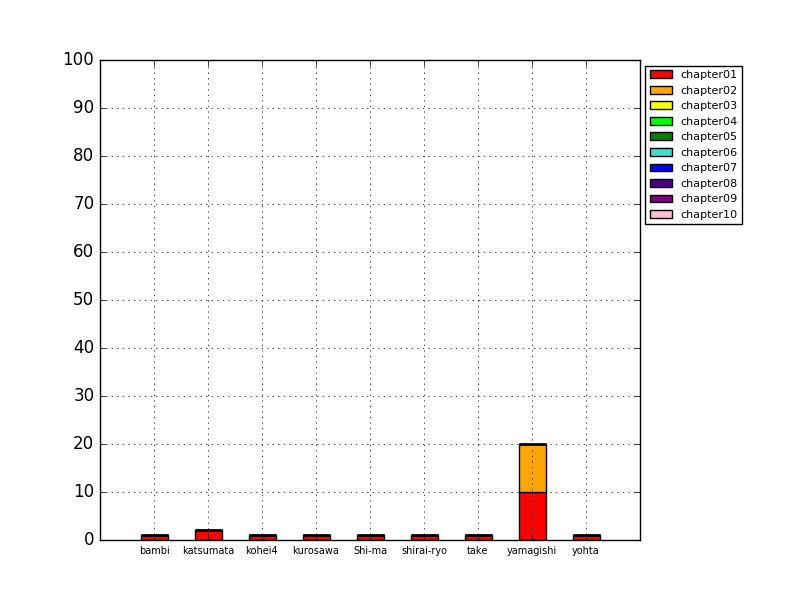
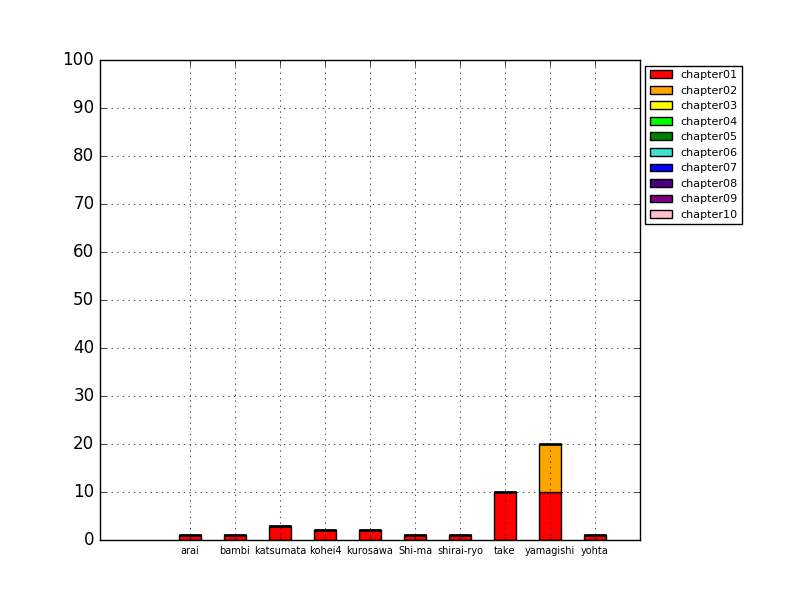
chapter01 was added

Changed region(s): [[0.1562, 0.72, 0.7812, 0.93]]

diff --git a/yamagishi/chapter01/knock09.py b/yamagishi/chapter01/knock09.py
@@ -1,0 +1,19 @@
+import random
+
+def swap(word):
+    if len(word) < 4:
+        return word
+    else:
+        word = list(word)
+        first = word.pop(0)
+        last = word.pop(-1)
+        random.shuffle(word)
+        return ''.join(list(first) + word + list(last))
+
+sentence = "I couldn't believe that I could actually understand what I was reading : the phenomenal power of the human mind ."
+
+ans = list()
+for word in sentence.strip().split():
+    ans.append(swap(word))
+
+print(' '.join(ans))

diff --git a/yamagishi/chapter01/knock04.py b/yamagishi/chapter01/knock04.py
@@ -1,0 +1,14 @@
+sentence = 'Hi He Lied Because Boron Could Not Oxidize Fluorine. New Nations Might Also Sign Peace Security Clause. Arthur King Can.'
+
+direct = [1, 5, 6, 7, 8, 9, 15, 16, 19]
+
+element = dict()
+for i, word in enumerate(sentence.strip().split()):
+    if i + 1 in direct:
+        element[word[0]] = i + 1
+    elif i + 1 == 12:
+        element[word[0:3:2]] = i + 1
+    else:
+        element[word[:2]] = i + 1
+
+print(sorted(element.items(), key=lambda x:x[1]))

diff --git a/yamagishi/chapter01/knock08.py b/yamagishi/chapter01/knock08.py
@@ -1,0 +1,19 @@
+def cipher(s):
+    if s.islower():
+        return chr(219 - ord(s))
+    else:
+        return s
+
+word = 'aBcDeFg'
+
+enc = ''
+for s in word:
+    enc += cipher(s)
+
+print('Encode: ' + enc)
+
+dec = ''
+for s in enc:
+    dec += cipher(s)
+
+print('Decode: ' + dec)

diff --git a/yamagishi/chapter01/knock03.py b/yamagishi/chapter01/knock03.py
@@ -1,0 +1,5 @@
+sentence = 'Now I need a drink, alcoholic of course, after the heavy lectures involving quantum mechanics.'
+sentence = sentence.replace(',', '').replace('.', '')
+
+pi = [len(word) for word in sentence.strip().split()]
+print(pi)

diff --git a/yamagishi/chapter01/knock05.py b/yamagishi/chapter01/knock05.py
@@ -1,0 +1,7 @@
+def ngram(string, n):
+    return list(zip(*[string[i:] for i in range(n)]))
+
+if __name__ == '__main__':
+    string = 'I am an NLPer'
+    print(ngram(string.strip().split(), 2))
+    print(ngram(string.replace(' ', '_'), 2))

diff --git a/yamagishi/chapter01/knock06.py b/yamagishi/chapter01/knock06.py
@@ -1,0 +1,8 @@
+from knock05 import ngram
+
+X = set(ngram('paraparaparadise', 2))
+Y = set(ngram('paragraph', 2))
+
+print('X | Y\t' + str(X | Y))
+print('X & Y\t' + str(X & Y))
+print('X - Y\t' + str(X - Y))

diff --git a/yamagishi/chapter01/knock02.py b/yamagishi/chapter01/knock02.py
@@ -1,0 +1,10 @@
+# -*- coding: utf-8 -*-
+
+s1 = 'パトカー'
+s2 = 'タクシー'
+
+ans = ''
+for l1, l2 in zip(s1, s2):
+    ans += l1 + l2
+
+print(ans)

diff --git a/yamagishi/chapter01/knock07.py b/yamagishi/chapter01/knock07.py
@@ -1,0 +1,4 @@
+def template(x, y, z):
+    return str(x) + '時の' + str(y) + 'は' + str(z)
+
+print(template(12, '気温', 22.4))

diff --git a/yamagishi/chapter01/knock01.py b/yamagishi/chapter01/knock01.py
@@ -1,1 +1,3 @@
-print('Hello, World!')
+# -*- coding: utf-8 -*-
+sentence = 'パタトクカシー'
+print(sentence[::2])

diff --git a/yamagishi/chapter01/knock00.py b/yamagishi/chapter01/knock00.py
@@ -1,0 +1,2 @@
+sentence = 'stressed'
+print(sentence[::-1])
